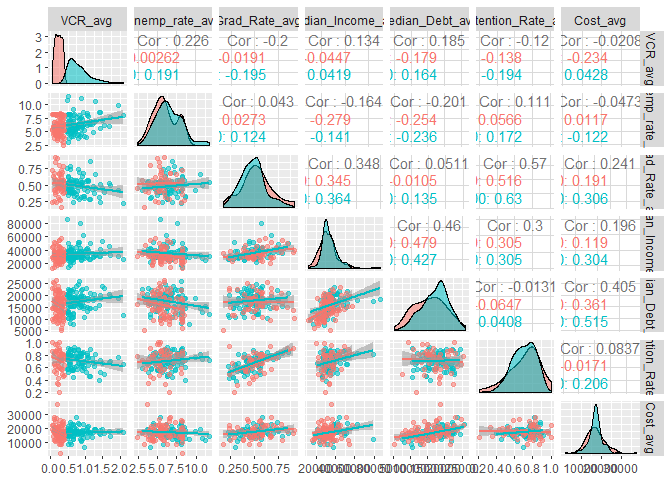
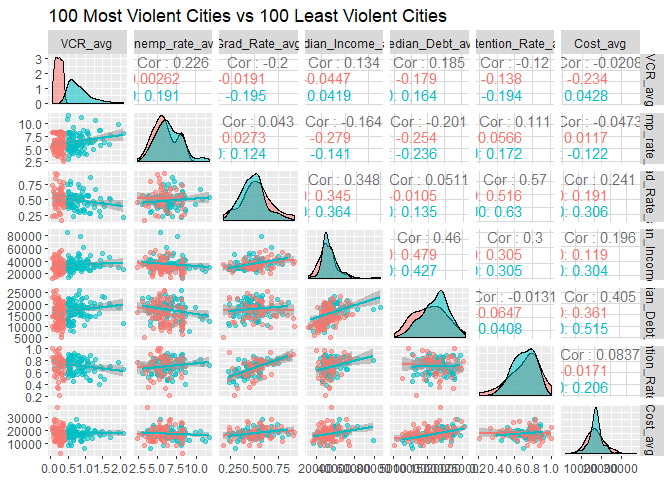
Added title to comparison_plot

diff --git a/Capstone_tidy.md b/Capstone_tidy.md
@@ -627,6 +627,7 @@ matrix_2 <- as.data.frame(matrix_2)
 # Plot matrix data comparing all variables #
 comparison_plot <- ggpairs(matrix_2, 
                              columns = c(4:6, 8:11), 
+                             title = "100 Most Violent Cities vs 100 Least Violent Cities",
                              upper = list(
                                continuous = "cor",
                                mapping = aes(color = rank, alpha = 0.6)
